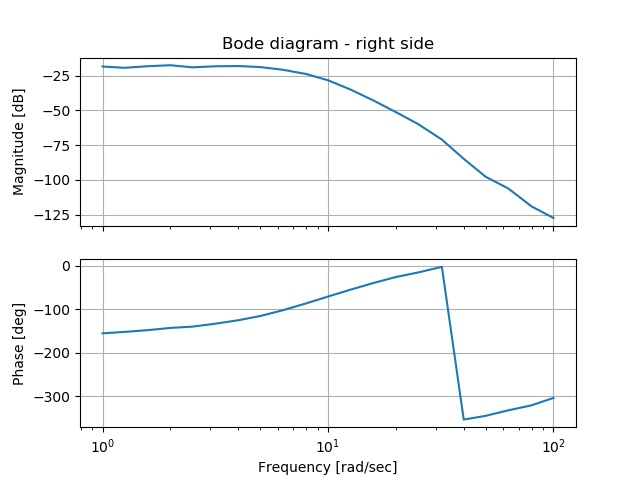
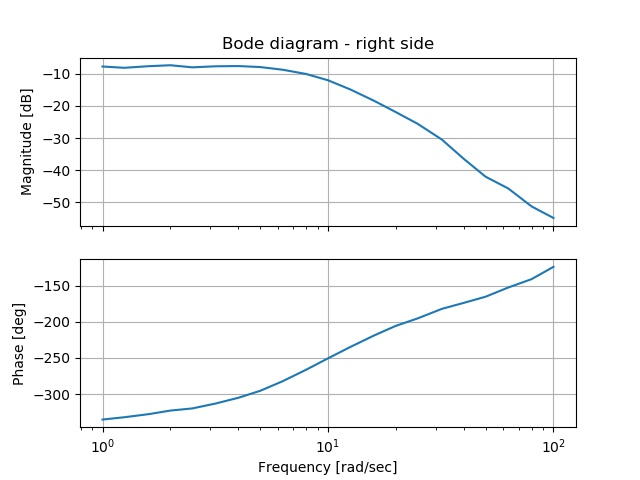
update figures, use 10based log

diff --git a/Python - data analysis/Frequency response analysis/freq_resp_analysis.py b/Python - data analysis/Frequency response analysis/freq_resp_analysis.py
@@ -7,7 +7,8 @@ import matplotlib.pyplot as plt
 from pylab import *
 from math import atan2
 
-PLOT_BOOL = True
+PLOT_BOOL = False
+CALC_OPER_FREQ = False
 
 INTMAX = 65535
 
@@ -15,12 +16,14 @@ PHOTO_MIN_LEFT = 650
 PHOTO_MAX_LEFT = 830
 PHOTO_MIN_RIGHT = 700
 PHOTO_MAX_RIGHT = 870
+directory = "20180529_fra_logs/"  # TODO change this if new data shall be analyzed
 
 """
 PHOTO_MIN_LEFT = 440
 PHOTO_MAX_LEFT = 830
 PHOTO_MIN_RIGHT = 630
 PHOTO_MAX_RIGHT = 875
+directory = "20180525_fra_logs/"  # TODO change this if new data shall be analyzed
 """
 
 def get_freq_from_filename(filename):
@@ -59,14 +62,13 @@ amplitude_factor_r = []
 phasediff_l = []
 amplitude_factor_l = []
 freq_vec = []
-directory = "20180529_fra_logs/"  # TODO change this if new data shall be analyzed
 for file in os.listdir(directory):
     if False:  # TODO change this, if you want to skip all this calculation
         freq_vec = [1.25, 1.6, 100, 10, 12.6, 16, 1, 2.5, 20, 25, 2, 3.17, 32, 40, 4, 50, 5, 6.3, 63, 80, 8]
-        amplitude_factor_l = [0.17675981919970632, 0.18312267399356463, 0.01949341829267395, 0.26978239192019077, 0.33311878171527165, 0.369774072356006, 0.17400096951295416, 0.1861252801566901, 0.40017296807194397, 0.35064397887112764, 0.18210014901931423, 0.18511272146373267, 0.24791723227837462, 0.1493456317662998, 0.19146047921594653, 0.0870301532158636, 0.21099364288831401, 0.2147280185263324, 0.057726254563911, 0.033107839481778374, 0.2268739054577375]
-        phasediff_l = [205.3467514567597, -153.83743080935628, -320.4845338866222, -138.41202856697728, -130.70251871686537, -117.61487228247117, -153.8657640699463, 206.6923061292191, -94.09974537617197, -63.71638847428862, -153.943579306678, -152.81436374583922, -32.06355657979239, -12.819295739503332, 208.9100765632432, -358.5403588020346, 211.22988735406227, -147.1806573568082, 15.21830488777887, 28.40729165304161, -143.45301992811727]
-        amplitude_factor_r = [0.3213865015198608, 0.3402113519590562, 0.0017350629530853432, 0.2632195090055476, 0.20043435967514273, 0.13753176962093036, 0.30703807504243574, 0.3555171356019676, 0.08792206197073925, 0.0558128683646143, 0.3419203111085945, 0.3610073717927054, 0.031094711719848636, 0.01909289974777871, 0.3600614244021166, 0.009350720910695715, 0.3600395998619217, 0.34258954235828526, 0.005405908932899052, 0.0028516219104144456, 0.31218786121127073]
-        phasediff_r = [204.92819072330562, -151.97006600815976, -319.84408374620705, -79.27443527064112, -62.72997159062926, -45.326803861137805, -157.37797161148433, 215.27285553574174, -30.801214613586374, -16.750805205243367, -149.4433775479537, -139.3751588712953, -3.0897574145693305, 8.407631597919078, 228.2595159881846, -342.8433311689313, 236.59164331706756, -112.32516351906195, 22.705565035590723, 30.47923008367799, -97.33697806039062]
+        amplitude_factor_l = [0.25040974386625153, 0.2594237881575532, 0.027615675914620687, 0.38219172188693584, 0.47191827409663434, 0.5238466025043429, 0.24650137347668222, 0.26367748022198007, 0.5669117047685919, 0.4967456367340987, 0.2579752111106925, 0.2622430220736225, 0.3512160790610284, 0.2115729783355916, 0.27123567888926187, 0.12329271705580712, 0.29890766075845365, 0.3041980262456386, 0.08177886063221472, 0.04690277259918248, 0.32140469939845934]
+        phasediff_l = [25.346751456760742, -333.83743080935653, -140.48453388661724, 41.587971433023625, -310.7025187168664, 62.385127717528775, -333.8657640699465, 26.692306129220952, 85.9002546238281, -243.7163884742885, 26.05642069332231, 27.185636254161082, 147.93644342020917, 167.18070426049786, 28.910076563242654, -178.54035880203273, 31.22988735406183, -327.1806573568086, 195.2183048877806, -151.59270834695292, 36.54698007188293]
+        amplitude_factor_r = [0.48207975227979577, 0.510317027938587, 0.002602594429631148, 0.3948292635083239, 0.30065153951271084, 0.20629765443139778, 0.4605571125636496, 0.5332757034029528, 0.13188309295611006, 0.08371930254692196, 0.5128804666628917, 0.5415110576890578, 0.04664206757977547, 0.028639349621668753, 0.540092136603179, 0.014026081366043247, 0.5400593997928911, 0.5138843135374294, 0.008108863399352646, 0.004277432865617745, 0.4682817918169037]
+        phasediff_r = [24.928190723305732, -331.97006600815985, -139.8440837460424, -259.2744352706402, -242.72997159062953, 134.67319613886136, -337.377971611484, 35.27285553574225, 149.19878538641257, -196.7508052052425, 30.556622452045957, 40.624841128704745, -183.08975741455893, 188.407631597924, 48.25951598818422, -162.8433311689285, 56.591643317067124, -292.3251635190619, 202.70556503559357, -149.52076991621885, -277.33697806039027]
 
         continue
 
@@ -85,8 +87,18 @@ for file in os.listdir(directory):
     for i in range(len(df.iloc[:,3]) -1):
         if df.iloc[i,3] > df.iloc[i+1,3]:
             df.iloc[i+1:,3] = df.iloc[i+1:,3] + INTMAX
-    for i in range(len(df.iloc[:, 3])):
-        df.iloc[i, 3] = df.iloc[i, 3] / 1000000  # convert to seconds
+
+    # just to have an average us length of a step:
+    if CALC_OPER_FREQ:
+        step_sum = 0
+        for i in range(len(df.iloc[:,3]) - 1):
+            step_sum = step_sum + df.iloc[i+1,3] - df.iloc[i,3]
+        # avg_step_len = step_sum / len(df.iloc[:,3])  # more precise mean
+        avg_step_len = (df.iloc[-1,3] - df.iloc[0,3]) / len(df.iloc[:,3])  # global mean
+        print("average step length for " + frequency + "Hz is " + str(avg_step_len))
+        for i in range(len(df.iloc[:, 3])):
+            df.iloc[i, 3] = df.iloc[i, 3] / 1000000  # convert to seconds
+
 
     if PLOT_BOOL:
         print("plotting freq " + frequency)
@@ -113,11 +125,11 @@ for file in os.listdir(directory):
     (phaseEst_in, amplitudeEst_in, biasEst_in) = fitSine(tSamples, yMeasured_in, frequency_float)
 
     # output left
-    yMeasured_out_l = map_to_255(df.iloc[:, 1], PHOTO_MIN_LEFT, PHOTO_MAX_LEFT)#df.iloc[:, 1]  # shift of four to have the right side
+    yMeasured_out_l = map_to_255(df.iloc[:, 1], PHOTO_MIN_LEFT, PHOTO_MAX_LEFT)#df.iloc[:, 1]
     (phaseEst_out_l, amplitudeEst_out_l, biasEst_out_l) = fitSine(tSamples, yMeasured_out_l, frequency_float)
 
     # output right
-    yMeasured_out_r = map_to_255(df.iloc[:, 2], PHOTO_MIN_RIGHT, PHOTO_MAX_RIGHT)#df.iloc[:, 2]  # shift of four to have the right side
+    yMeasured_out_r = map_to_255(df.iloc[:, 2], PHOTO_MIN_RIGHT, PHOTO_MAX_RIGHT)#df.iloc[:, 2]
     (phaseEst_out_r, amplitudeEst_out_r, biasEst_out_r) = fitSine(tSamples, yMeasured_out_r, frequency_float)
     # magnitude and phase offset
     phasediff_l.append(phaseEst_in - phaseEst_out_l)
@@ -139,8 +151,8 @@ print(phasediff_l)
 print(amplitude_factor_r)
 print(phasediff_r)
 indices = np.argsort(freq_vec)
-amplitude_factor_l = 20 * np.log(amplitude_factor_l)
-amplitude_factor_r = 20 * np.log(amplitude_factor_r)
+amplitude_factor_l = 20 * np.log10(amplitude_factor_l)
+amplitude_factor_r = 20 * np.log10(amplitude_factor_r)
 
 left_bode, axarr_l = plt.subplots(2, sharex=True)
 axarr_l[0].semilogx([freq_vec[x] for x in indices], [amplitude_factor_l[x] for x in indices])
